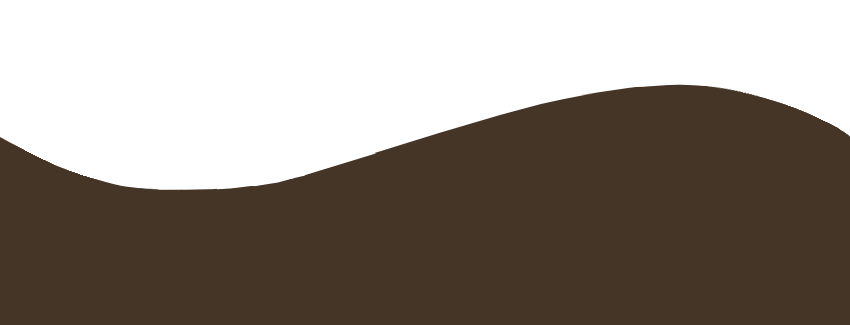
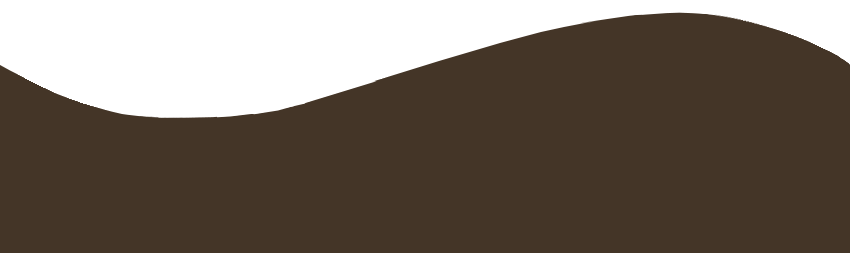
diminui espaçamento da onda, alterei o pngp para versão final, adicionei opção de clicar em cadastre-se e coloquei importação das fontes no index

Changed region(s): [[0.0, 0.0277, 1.0, 0.6087]]

diff --git a/api/site/public/cadastro.html b/api/site/public/cadastro.html
@@ -7,10 +7,11 @@
     <title> Cadastro - Diários de Mystic Falls </title>
     <link rel="stylesheet" href="css/styleCadastro.css">
     <script src="js/scriptCadastro.js"></script>
+ 
 </head>
 
 <body style="background-image: url(assets/cadastro.login/QuartoElena.jpg);">
-    
+
     <div class="navbar">
         <p onclick="telaLogin()">LOGIN</p>
         <p onclick="telaInicial()">HOME</p>
@@ -19,11 +20,11 @@
         <div class="flexbox">
             <h1>Cadastre-se</h1>
             <h2>Informe seus dados e crie uma senha</h2>
-            <input type="text" class="campoDeDados" placeholder="Nome Completo" />
-            <input type="text" class="campoDeDados" placeholder="E-mail" />
-            <input type="text" class="campoDeDados" placeholder="Criar senha" />
-            <input type="text" class="campoDeDados" placeholder="Confirmar senha" />
-            <button onclick="cadastrar()" id="botaoCadastrar">Cadastrar</button>
+            <input class="campoDeDados" placeholder="Nome Completo" />
+            <input class="campoDeDados" placeholder="E-mail" />
+            <input class="campoDeDados" placeholder="Criar senha" />
+            <input class="campoDeDados" placeholder="Confirmar senha" />
+            <button onclick="cadastrar()" class="botaoCadastrar">Cadastrar</button>
         </div>
     </div>
 </body>

diff --git a/api/site/public/index.html b/api/site/public/index.html
@@ -10,12 +10,15 @@
     <!-- importação css e js -->
     <script src="js/script.js"></script>
     <link rel="stylesheet" href="css/style.css">
-    <!-- importação das fontes -->
-    <link rel="preconnect" href="https://fonts.googleapis.com" />
-    <link rel="preconnect" href="https://fonts.gstatic.com" crossorigin />
-    <link
-        href="https://fonts.googleapis.com/css2?family=Montserrat:wght@400;500;700&family=Bona+Nova:ital,wght@0,400;0,700;1,400&family=Dancing+Script:wght@400;500;600;700&display=swap"
-        rel="stylesheet" />
+    <!-- importação fontes -->
+    <link rel="stylesheet"
+    href="https://fonts.googleapis.com/css?family=Poppins">
+    <link rel="stylesheet"
+    href="https://fonts.googleapis.com/css?family=Bona+Nova">
+    <link rel="stylesheet"
+    href="https://fonts.googleapis.com/css?family=Monda">
+    <link rel="stylesheet"
+    href="https://fonts.googleapis.com/css?family=Montserrat">
 
 </head>
 
@@ -76,7 +79,7 @@
         <p> Se você tem ideias, pensamentos <br> e histórias para compartilhar, <br> inscreva-se e crie um espaço
             pessoal <br> para suas palavras. <br> Sua criatividade é bem-vinda!</p>
 
-        <div class="cadastre">
+        <div class="cadastre" onclick="cadastrar()">
             <p> CADASTRE-SE!</p>
         </div>
     </div>

diff --git a/api/site/public/css/styleCadastro.css b/api/site/public/css/styleCadastro.css
@@ -1,12 +1,3 @@
-@font-face {
-    font-family: 'WorkSans';
-    src: url(Fontes/WorkSans-VariableFont_wght.ttf);
-}
-
-@font-face {
-    font-family: 'Montserrat';
-    src: url(Fontes/Montserrat-VariableFont_wght.ttf);
-}
 
 * {
     color: white;
@@ -60,8 +51,8 @@ h2 {
 	background-color: #B6A281;
 	border: none;
 	padding-bottom: 1px;
-	width: 408px;
-	height: 55px;
+	width: 398px;
+	height: 49px;
 	border-radius: 20px;
     margin: 10px;
 }
@@ -75,9 +66,10 @@ h2 {
     display: flex;    
     align-items: center;
     flex-direction: column;   
+	margin-top: 30px;
 }
 
-#botaoCadastrar {	
+.botaoCadastrar {	
 	background-color: #552424;
 	border: none;
 	color: white;
@@ -90,5 +82,11 @@ h2 {
     margin: 19px;
     font-family: 'WorkSans';
 	cursor: pointer;
+}
 
+.botaoCadastrar:hover {
+	background-color: #673232;
+	transition-duration: 1s;
+	cursor: pointer;
+	box-shadow: 0 8px 16px 0 rgba(0,0,0,0.2), 0 6px 20px 0 rgba(0,0,0,0.19);
 }

diff --git a/api/site/public/login.html b/api/site/public/login.html
@@ -17,13 +17,13 @@
         <h1>Bem-vindo à Diários de Mystic Falls</h1>
         <h2>Faça login para acessar sua conta</h2>
         <h3>Nome de Usuário</h3>
-        <input type="text" id="username" class="camposDeEntrada">
+        <input id="username" class="camposDeEntrada">
         <h3>Senha</h3>
-        <input type="password" id="password" class="camposDeEntrada">
+        <input id="password" class="camposDeEntrada">
 
         <h4><a href="#">Esqueceu sua senha?</a></h4>
 
-        <button onclick="logar()" id="botaoLogar">Login</button>
+        <button onclick="logar()" class="botaoLogar">Login</button>
 
         <h5>Não tem uma conta? <span class="corCrie" onclick="telaCadastro()">Crie agora!</span></h4>
     </div>

diff --git a/api/site/public/css/style.css b/api/site/public/css/style.css
@@ -1,33 +1,3 @@
-@font-face {
-    font-family: 'BonaNova';
-    src: url(fontes/BonaNova-Regular.ttf);
-}
-
-@font-face {
-    font-family: 'Bona-Bold';
-    src: url(fontes/BonaNova-Bold.ttf);
-}
-
-@font-face {
-    font-family: 'Montserrat';
-    src: url(fontes/Montserrat-VariableFont_wght.ttf);
-}
-
-@font-face {
-    font-family: 'Monda';
-    src: url(fontes/Monda-Regular.ttf);
-}
-
-@font-face {
-    font-family: 'Monda-Bold';
-    src: url(fontes/Monda-Bold.ttf);
-}
-
-@font-face {
-    font-family: 'Poppins';
-    src: url(fontes/Poppins-Light.ttf);
-}
-
 body {
     margin: 0;
     background-color: #9E8466;
@@ -178,6 +148,7 @@ body {
 .cadastre>p {
     left: 60%;
     font-size: 40px;
+    cursor: pointer;
 }
 
 .borda {

diff --git a/api/site/public/css/styleLogin.css b/api/site/public/css/styleLogin.css
@@ -98,10 +98,10 @@ h5 {
 
 .corCrie {
 	cursor: pointer;
-	color: #caa06c;
+	color: #cfaf87;
 }
 
-#botaoLogar {	
+.botaoLogar {	
 	background-color: #552424;
 	border: none;
 	color: white;
@@ -114,7 +114,7 @@ h5 {
 
 }
 
-#botaoLogar:hover {
+.botaoLogar:hover {
 	background-color: #673232;
 	transition-duration: 1s;
 	cursor: pointer;

diff --git a/api/site/public/js/script.js b/api/site/public/js/script.js
@@ -173,6 +173,10 @@ function telaLogin() {
    
 }
 
+function cadastrar() {
+    window.location.href = "cadastro.html"
+}
+
 // funções para chamar o gif //
 function playGif(image) {
     image.src = 'assets/paginaInicial/gifElenaVampira.gif'
